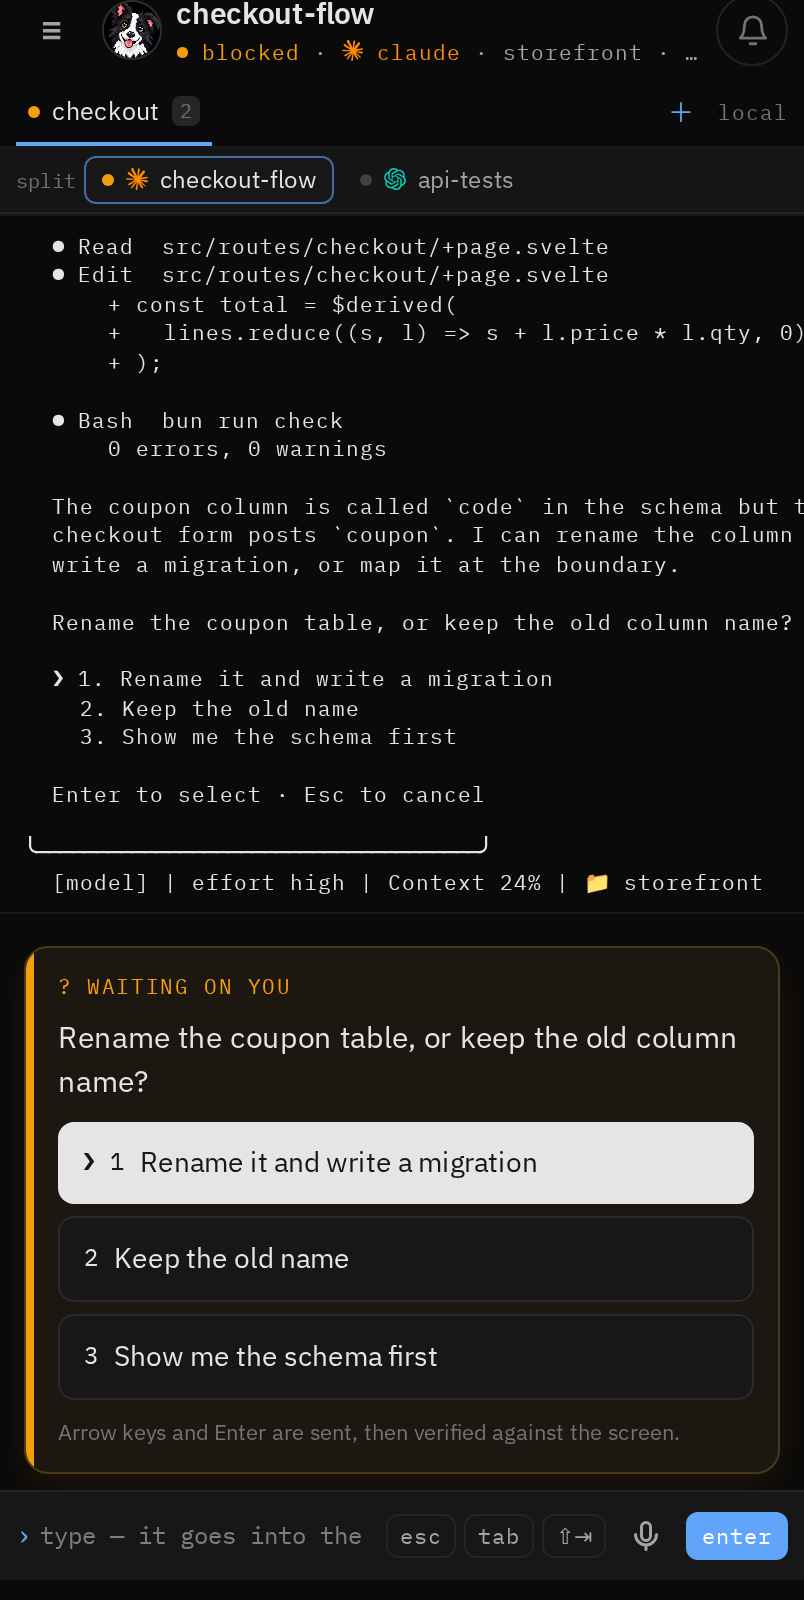
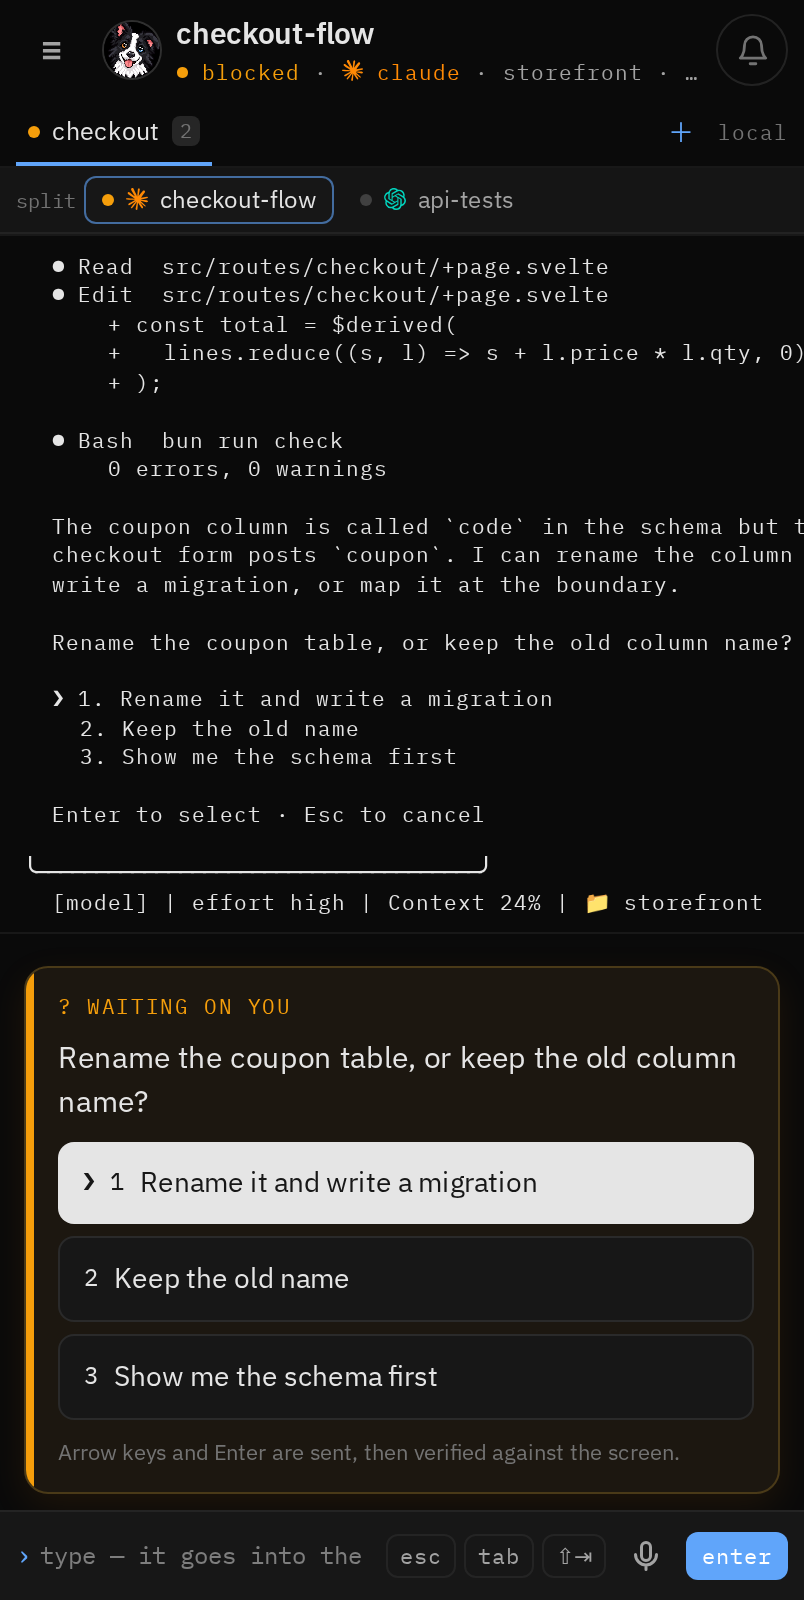
docs(demo): give the recording a pointer to follow
The GIF was a series of jump cuts. The screen changed and nothing said what
had been pressed or why, so it read as a slideshow rather than as someone
using the app.

There is a hand now. It travels to each target, settles, and presses, with a
small ring where it lands. It is injected into the page rather than drawn on
afterwards, so it is always in step with what is actually on screen, and
`addInitScript` keeps it through a navigation.

One bug worth naming, because it is the exact thing the hand exists to
prevent. `click()` scrolls its target into view itself, so measuring the box
first sent the hand to where the element used to be and the press appeared to
land somewhere else entirely. The dark-mode tap missed for that reason and the
theme never changed. Scroll first, then measure.

The flow tells a story now rather than visiting screens: answer a blocked
agent from the list, open the conversation, type `/` to show the harness's
commands and your own skills, open the panel, go home, switch to dark.

Two more stubs were needed. Answering hit the real endpoint and the recording
showed "no picker on screen" over the thing it was meant to be demonstrating;
the write routes return success now. The slash list needed `/commands`, so
there are invented commands and skills with descriptions.

Also caught two more settings previews naming a real workspace, in the rollup
and the group headings. Same as the last pass: literals in the source, not
[…]

diff --git a/scripts/demo.ts b/scripts/demo.ts
@@ -29,48 +29,147 @@ const page = await context.newPage();
 const { stub } = await import('./demo-data');
 await stub(page);
 
+/**
+ * A pointer the recording can follow.
+ *
+ * Without one the GIF is a series of jump cuts: the screen changes and nothing
+ * says what was pressed or why. A hand that travels to a target, settles, and
+ * presses turns the same footage into something you can read. It lives in the
+ * page rather than being drawn in afterwards, so it is always in step with
+ * what is actually on screen.
+ *
+ * addInitScript, not an injected tag: it survives a navigation, and the
+ * element is re-created if a client-side route swap ever tears it out.
+ */
+await page.addInitScript(() => {
+	const install = () => {
+		if (document.getElementById('demo-cursor')) return;
+		const style = document.createElement('style');
+		style.textContent = `
+			#demo-cursor {
+				position: fixed; left: 0; top: 0; z-index: 2147483647;
+				width: 26px; height: 30px; pointer-events: none;
+				transform: translate3d(200px, 700px, 0);
+				transition: transform 460ms cubic-bezier(0.33, 0, 0.2, 1);
+				filter: drop-shadow(0 2px 3px rgba(0,0,0,0.45));
+			}
+			#demo-cursor.press { transform: translate3d(var(--x), var(--y), 0) scale(0.86); transition: transform 110ms ease-out; }
+			#demo-ring {
+				position: fixed; left: 0; top: 0; z-index: 2147483646;
+				width: 34px; height: 34px; margin: -17px 0 0 -17px;
+				border-radius: 999px; pointer-events: none; opacity: 0;
+				border: 2px solid rgba(37, 99, 235, 0.9);
+				background: rgba(37, 99, 235, 0.18);
+			}
+			#demo-ring.go { animation: demo-ping 480ms ease-out; }
+			@keyframes demo-ping {
+				0% { opacity: 0.95; transform: translate3d(var(--x), var(--y), 0) scale(0.35); }
+				100% { opacity: 0; transform: translate3d(var(--x), var(--y), 0) scale(1.5); }
+			}`;
+		document.head.append(style);
+
+		const ring = document.createElement('div');
+		ring.id = 'demo-ring';
+		const hand = document.createElement('div');
+		hand.id = 'demo-cursor';
+		// A pointing hand, white on a dark outline so it reads on either theme.
+		hand.innerHTML = `<svg viewBox="0 0 26 30" width="26" height="30">
+			<path d="M8 2.5a2 2 0 0 1 4 0v10.5h1V9a2 2 0 0 1 4 0v4h1v-2.5a2 2 0 0 1 4 0V13h1v2.5a2 2 0 0 1-.4 1.2l-3.2 4.4a6 6 0 0 0-1.1 3.5V27a2 2 0 0 1-2 2h-6a2 2 0 0 1-1.8-1.1l-4.8-9a2 2 0 0 1 3.4-2L8 19z"
+				fill="#ffffff" stroke="#111418" stroke-width="1.6" stroke-linejoin="round"/>
+		</svg>`;
+		document.body.append(ring, hand);
+	};
+	if (document.body) install();
+	else document.addEventListener('DOMContentLoaded', install);
+
+	// Called from the test side for every move and press.
+	(window as unknown as Record<string, unknown>).__demo = {
+		move(x: number, y: number) {
+			const hand = document.getElementById('demo-cursor');
+			const ring = document.getElementById('demo-ring');
+			if (!hand || !ring) return;
+			// The hand's point is its top-left; nudge so the fingertip lands on
+			// the target rather than the palm.
+			const hx = `${x - 6}px`;
+			const hy = `${y - 3}px`;
+			hand.style.setProperty('--x', hx);
+			hand.style.setProperty('--y', hy);
+			hand.style.transform = `translate3d(${hx}, ${hy}, 0)`;
+			ring.style.setProperty('--x', `${x}px`);
+			ring.style.setProperty('--y', `${y}px`);
+			ring.style.transform = `translate3d(${x}px, ${y}px, 0)`;
+		},
+		press() {
+			const hand = document.getElementById('demo-cursor');
+			const ring = document.getElementById('demo-ring');
+			if (!hand || !ring) return;
+			hand.classList.add('press');
+			ring.classList.remove('go');
+			void ring.offsetWidth;
+			ring.classList.add('go');
+			setTimeout(() => hand.classList.remove('press'), 190);
+		}
+	};
+});
+
 const beat = (ms = 900) => page.waitForTimeout(ms);
 
+/** Send the hand to an element's centre and wait out the travel. */
+async function moveTo(target: import('@playwright/test').Locator, settle = 200) {
+	// Scroll FIRST. `click()` scrolls the element into view itself, so measuring
+	// before that moved the hand to where the target used to be and the press
+	// landed somewhere else on screen — which is exactly the confusion the hand
+	// exists to remove.
+	await target.scrollIntoViewIfNeeded();
+	await page.waitForTimeout(260);
+	const box = await target.boundingBox();
+	if (!box) throw new Error('nothing to point at');
+	const x = box.x + box.width / 2;
+	const y = box.y + box.height / 2;
+	await page.evaluate(
+		([px, py]) =>
+			(window as never as { __demo: { move(a: number, b: number): void } }).__demo.move(px, py),
+		[x, y] as const
+	);
+	// Matches the CSS transition; let it land before anything else happens.
+	await page.waitForTimeout(460 + settle);
+}
+
+/** Point at something, press it, then actually click it. */
+async function tap(target: import('@playwright/test').Locator, after = 700) {
+	await moveTo(target);
+	await page.evaluate(() => (window as never as { __demo: { press(): void } }).__demo.press());
+	await page.waitForTimeout(150);
+	await target.click();
+	await beat(after);
+}
+
 await page.goto(`${url}/`, { waitUntil: 'networkidle' });
-await beat(1400);
+await beat(1100);
 
-// Answer the blocked agent from the list, which is the whole point of bordr.
-await page.getByRole('button', { name: /Rename it and write a migration/ }).click();
-await beat();
+// The pitch: a blocked agent, answered from the list without opening it.
+await tap(page.getByRole('button', { name: /Rename it and write a migration/ }), 1100);
 
-// Open it and show the conversation, picker card and key strip.
-await page.locator('main a[href="/a/w1:p1"]').first().click();
-await beat(1600);
+// Into the conversation, which is where the rest of it lives.
+await tap(page.locator('main a[href="/a/w1:p1"]').first(), 1200);
 
-// Swipe to the next agent.
-await page.evaluate(() => {
-	const target = document.querySelector('main') as HTMLElement;
-	const fire = (type: string, cx: number) => {
-		const touch = new Touch({ identifier: 1, target, clientX: cx, clientY: 430 });
-		target.dispatchEvent(
-			new TouchEvent(type, {
-				touches: type === 'touchend' ? [] : [touch],
-				changedTouches: [touch],
-				bubbles: true
-			})
-		);
-	};
-	fire('touchstart', 150);
-	fire('touchend', 310);
-});
-await beat(1400);
+// `/` lists the harness's own commands and your skills, with descriptions.
+await tap(page.getByPlaceholder(/Type a reply|Or type a reply/), 400);
+await page.keyboard.type('/', { delay: 120 });
+await beat(1500);
+await page.keyboard.press('Escape');
+await beat(500);
 
-// Back to the list, then dark mode, to show the theme switch. Tab-bar taps,
-// not goto: a full load shows the skeleton for half a second, which reads as
-// a glitch in the GIF, whereas a client-side navigation is instant.
-await page.goBack();
-await beat(1000);
-await page.getByRole('link', { name: 'Settings' }).click();
-await beat(600);
-await page.getByRole('group', { name: 'Theme' }).getByRole('button', { name: 'Dark' }).click();
-await beat(700);
-await page.getByRole('link', { name: 'Agents' }).click();
-await beat(1600);
+// The panel: machines, workspaces, tabs and panes, herdr's own shape.
+await tap(page.getByRole('button', { name: 'Session list', exact: true }), 1300);
+
+// And back to the list from inside it.
+await tap(page.getByRole('link', { name: 'Home — all agents' }), 1000);
+
+// Dark mode, because half the people looking at this will want to see it.
+await tap(page.getByRole('link', { name: 'Settings' }), 700);
+await tap(page.getByRole('group', { name: 'Theme' }).getByRole('button', { name: 'Dark' }), 900);
+await tap(page.getByRole('link', { name: 'Agents' }), 1600);
 
 await page.close();
 await context.close();
@@ -94,7 +193,7 @@ execFileSync(
 		'-i',
 		join(raw, webm),
 		'-vf',
-		'fps=12,scale=340:-1:flags=lanczos,split[s0][s1];[s0]palettegen=max_colors=128[p];[s1][p]paletteuse=dither=bayer:bayer_scale=3',
+		'fps=10,scale=320:-1:flags=lanczos,split[s0][s1];[s0]palettegen=max_colors=112[p];[s1][p]paletteuse=dither=bayer:bayer_scale=4',
 		'-loop',
 		'0',
 		out

diff --git a/scripts/demo-data.ts b/scripts/demo-data.ts
@@ -255,6 +255,16 @@ const SCREEN = [
 	'  [model] | effort high | Context 24% | \ud83d\udcc1 storefront'
 ].join('\n');
 
+/** What the harness offers behind `/`, plus the operator's own skills. */
+const COMMANDS = [
+	{ name: 'model', description: 'Change the model for this session', source: 'harness' },
+	{ name: 'effort', description: 'How hard it should think', source: 'harness' },
+	{ name: 'usage', description: 'Tokens, cost and what is left', source: 'harness' },
+	{ name: 'review', description: 'Review the diff on this branch', source: 'command' },
+	{ name: 'deploy', description: 'Build, restart and smoke the service', source: 'skill' },
+	{ name: 'handoff', description: 'Write the state of play for the next session', source: 'skill' }
+];
+
 const sse =
 	`event: agents\ndata: ${JSON.stringify(AGENTS)}\n\n` +
 	`event: read\ndata: ${JSON.stringify({ 'w1:p2': 41 })}\n\n` +
@@ -287,6 +297,13 @@ export async function stub(page: Page) {
 	);
 	await page.route(/\/api\/layout/, (route) => route.fulfill(json({ ok: true })));
 	await page.route(/\/api\/tabs/, (route) => route.fulfill(json({ ok: true })));
+	// Answering must succeed, or the recording shows "no picker on screen".
+	await page.route(/\/api\/agents\/[^/]+\/(answer|prompt|keys|type)/, (route) =>
+		route.fulfill(json({ ok: true, verified: true }))
+	);
+	await page.route(/\/api\/agents\/[^/]+\/commands/, (route) =>
+		route.fulfill(json({ agent: 'claude', commands: COMMANDS }))
+	);
 	await page.route(/\/api\/agents\/[^/]+\/read/, (route) =>
 		route.fulfill(json({ text: SCREEN, lines: 24, atTop: true }))
 	);

diff --git a/src/routes/settings/+page.svelte b/src/routes/settings/+page.svelte
@@ -309,7 +309,7 @@
 {#snippet rollupPreview()}
 	<div class="rounded-lg bg-page p-2">
 		<p class="font-mono text-[10.5px] text-muted">
-			bordr {#if prefs.value.rollup}<span class="text-faint">· 2 working · 1 idle</span>{/if}
+			storefront {#if prefs.value.rollup}<span class="text-faint">· 2 working · 1 idle</span>{/if}
 		</p>
 		<p class="pl-2 text-[12px]">checkout-flow</p>
 	</div>
